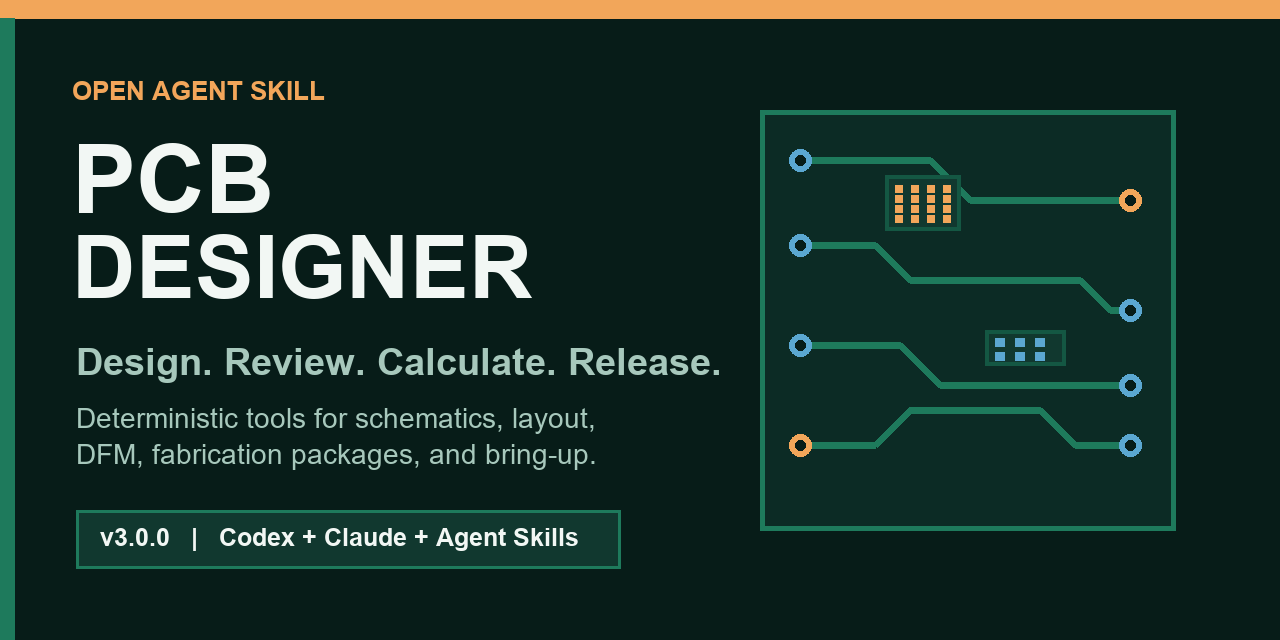
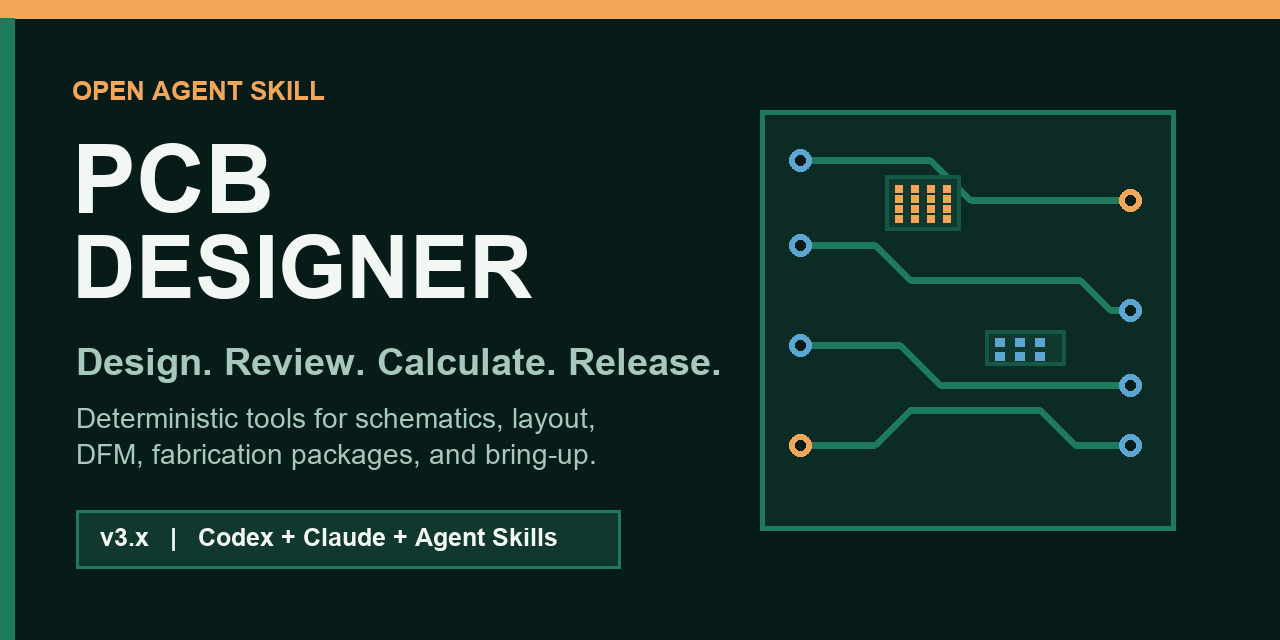
fix: validate repository-root installs

Changed region(s): [[0.0938, 0.8125, 0.4688, 0.875]]

diff --git a/scripts/validate_skill.py b/scripts/validate_skill.py
@@ -109,8 +109,6 @@ def validate_frontmatter(root: Path, text: str) -> list[str]:
             issues.append("frontmatter name has invalid hyphen placement")
         if len(name) > 64:
             issues.append("frontmatter name exceeds 64 characters")
-        if name != root.name:
-            issues.append(f"frontmatter name '{name}' does not match folder '{root.name}'")
     description = frontmatter.get("description")
     if not isinstance(description, str) or not description.strip():
         issues.append("frontmatter description is required")

diff --git a/tests/test_package_skill.py b/tests/test_package_skill.py
@@ -11,7 +11,7 @@ from scripts.package_skill import package, skill_version
 class PackageSkillTests(unittest.TestCase):
     def test_package_contains_runtime_files(self) -> None:
         root = Path(__file__).resolve().parents[1]
-        self.assertEqual(skill_version(root), "3.0.0")
+        self.assertEqual(skill_version(root), "3.0.1")
         with tempfile.TemporaryDirectory() as directory:
             output = Path(directory) / "pcb-designer.zip"
             package(root, output)

diff --git a/scripts/generate_social_preview.py b/scripts/generate_social_preview.py
@@ -114,7 +114,7 @@ def generate(output: Path) -> None:
     draw.rectangle((76, 510, 620, 568), fill="#11382F", outline=TRACE, width=3)
     draw.text(
         (100, 523),
-        "v3.0.0   |   Codex + Claude + Agent Skills",
+        "v3.x   |   Codex + Claude + Agent Skills",
         font=font(25, True),
         fill=TEXT,
     )

diff --git a/.github/release-notes/v3.0.1.md b/.github/release-notes/v3.0.1.md
@@ -1,0 +1,28 @@
+# PCB Designer v3.0.1
+
+This patch fixes the repository-root validation path discovered by the first
+v3.0.0 CI run.
+
+## Fixed
+
+- The validator no longer requires the checkout folder name to equal the skill
+  name. GitHub repositories, forks, and renamed install directories are valid.
+- CI can now validate the project from `claude-pcb-designer` as well as from an
+  installed `pcb-designer` directory.
+
+## Included From v3.0.0
+
+- Deterministic calculators with JSON output.
+- Gerber, drill, BOM, and CPL release auditing.
+- Progressive-disclosure references and templates.
+- Cross-platform validation tests.
+- Chinese documentation and a reproducible social preview.
+
+## Validation
+
+```bash
+python scripts/validate_skill.py .
+mypy scripts tests --ignore-missing-imports
+python -m unittest discover -s tests -v
+python scripts/package_skill.py
+```

diff --git a/CHANGELOG.md b/CHANGELOG.md
@@ -3,6 +3,14 @@
 All notable changes follow [Keep a Changelog](https://keepachangelog.com/) and
 semantic versioning.
 
+## [3.0.1] - 2026-09-13
+
+### Fixed
+
+- Allowed the package validator to run from a repository checkout whose folder
+  name differs from the skill name, such as `claude-pcb-designer`.
+- Added a regression path for repository-root and installed-skill validation.
+
 ## [3.0.0] - 2026-09-13
 
 ### Added

diff --git a/SKILL.md b/SKILL.md
@@ -4,7 +4,7 @@ description: Design, review, calculate, and release printed circuit boards for e
 license: MIT
 metadata:
   author: SPREsxm
-  version: "3.0.0"
+  version: "3.0.1"
   repository: https://github.com/SPREsxm/claude-pcb-designer
   keywords:
     - pcb
